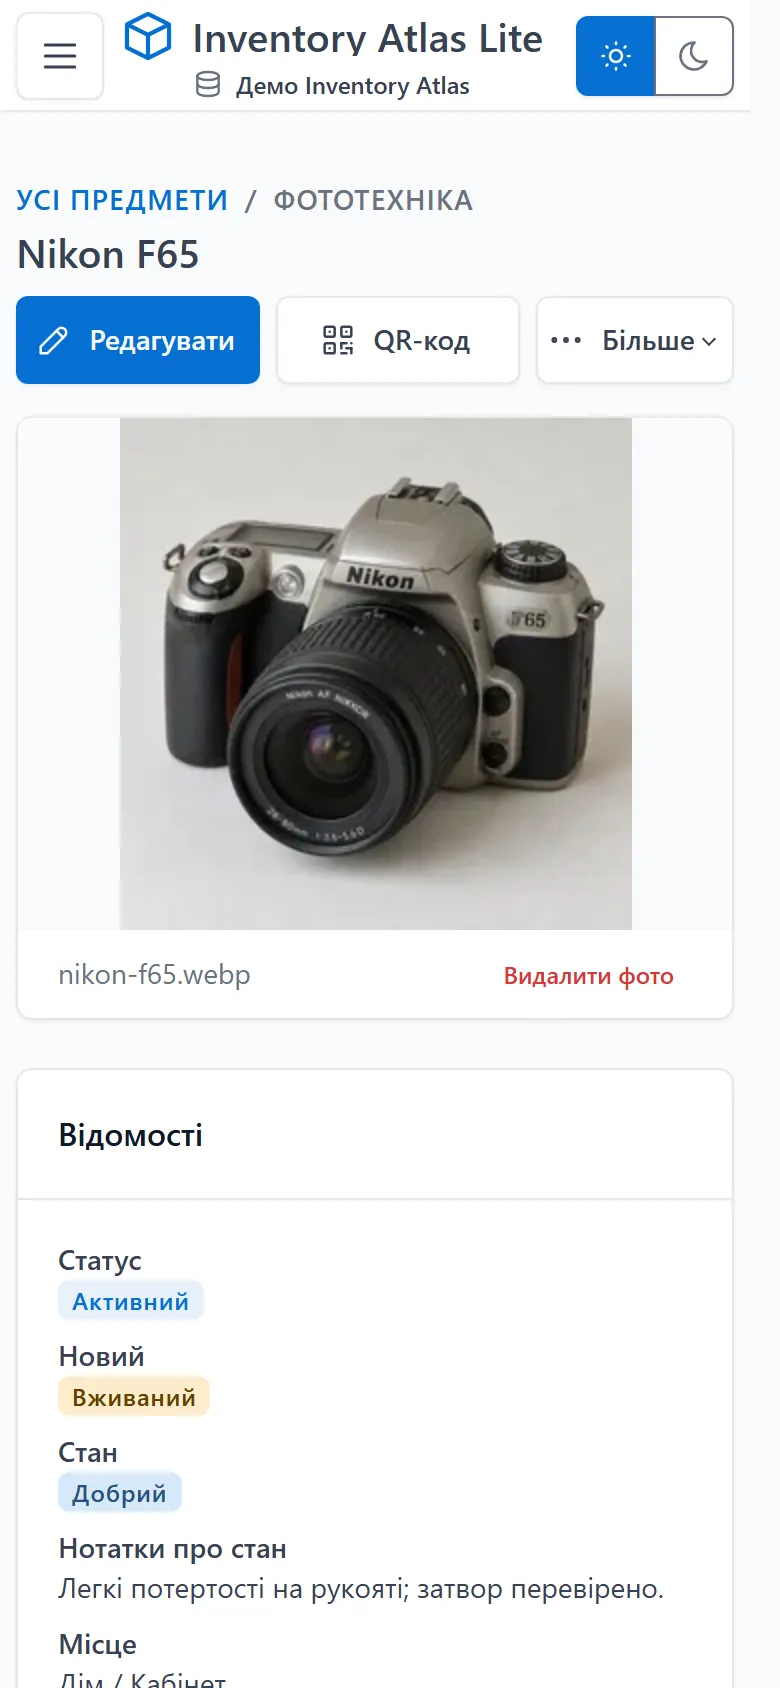
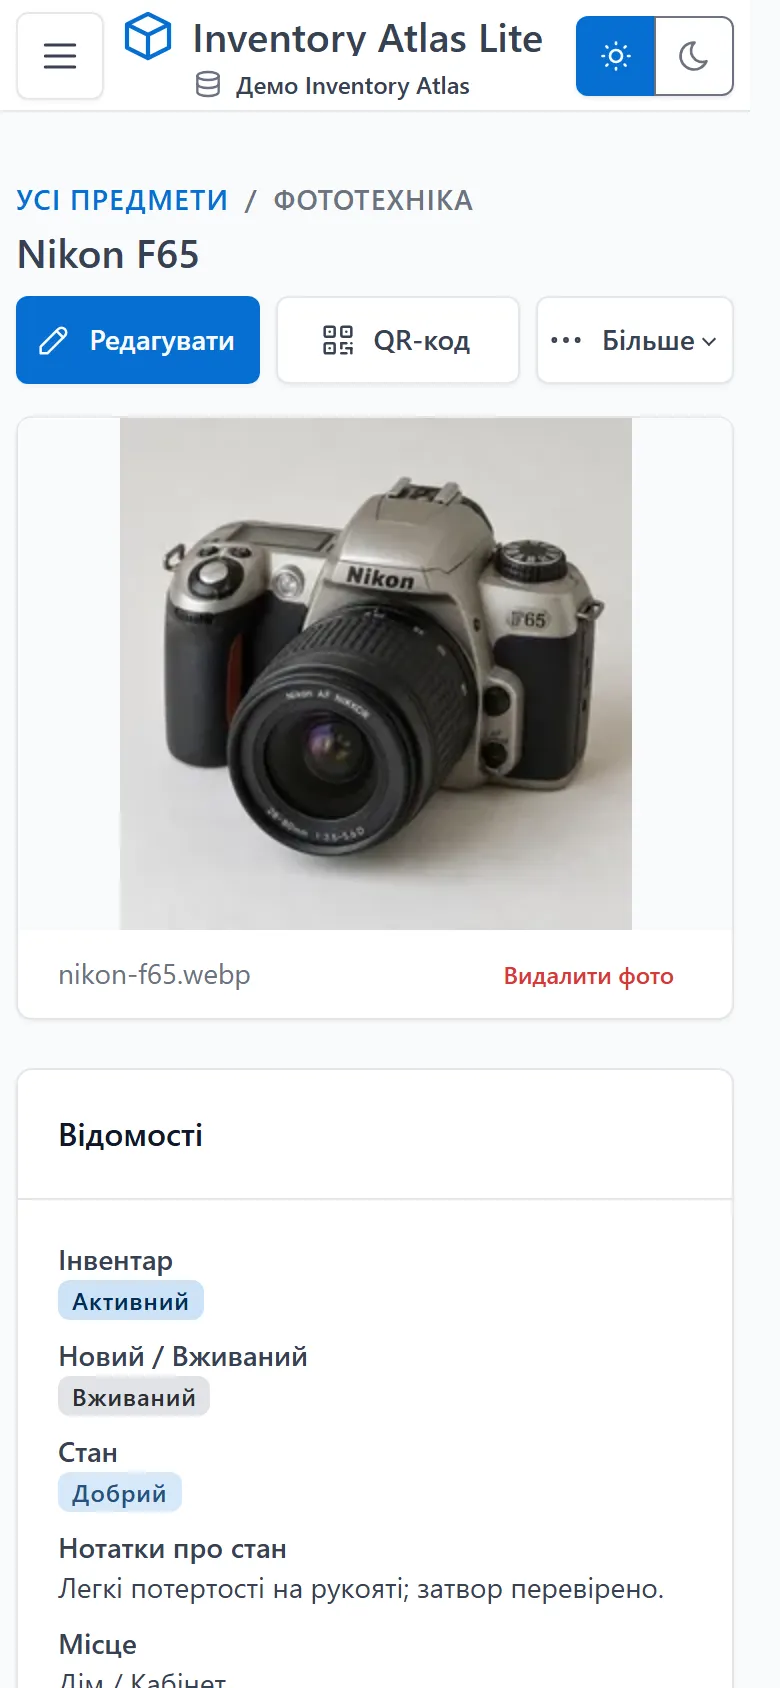
Clarify Inventory, New / Used, and Condition labels on Item Details (#58)

Changed region(s): [[0.0615, 0.7393, 0.4, 0.8626]]

diff --git a/test/e2e/item-new-status.spec.js b/test/e2e/item-new-status.spec.js
@@ -3,7 +3,7 @@ import { createCategory, createItem, detail, unique } from './helpers.js';
 
 const searchBox = page => page.getByPlaceholder('Search name, description, serial number, transferred to, specific location or text fields…');
 const newBadge = /bg-success-subtle text-success-emphasis/;
-const usedBadge = /bg-warning-subtle text-warning-emphasis/;
+const usedBadge = /bg-secondary-subtle text-secondary-emphasis/;
 
 // A new item and a used one, so every view shows both badges.
 async function newAndUsedItems(request) {
@@ -14,18 +14,31 @@ async function newAndUsedItems(request) {
   return { token, fresh, worn };
 }
 
-// WCAG contrast ratio between the badge text and its own background, as the browser resolved them.
+// WCAG contrast ratio between the badge text and the background it is seen on, as the browser resolved
+// them: a translucent background (Tabler's -lt colors) is blended over the nearest opaque ancestor.
 const contrastOf = badge => badge.evaluate(element => {
-  const style = getComputedStyle(element);
-  const channels = color => color.match(/[\d.]+/g).slice(0, 3).map(Number);
-  const luminance = color => {
-    const [r, g, b] = channels(color).map(value => {
+  // rgb() reports 0..255 channels; color-mix() resolves to color(srgb …) with 0..1 channels.
+  const parse = color => {
+    const values = color.replace(/^color\(srgb/, '').match(/[\d.]+/g).map(Number);
+    const scale = color.startsWith('color(') ? 255 : 1;
+    return { rgb: values.slice(0, 3).map(value => value * scale), alpha: values[3] ?? 1 };
+  };
+  const blend = (top, bottom) => top.rgb.map((value, i) => value * top.alpha + bottom[i] * (1 - top.alpha));
+  const backdrop = node => {
+    if (!node) return [255, 255, 255];
+    const own = parse(getComputedStyle(node).backgroundColor);
+    return own.alpha === 1 ? own.rgb : blend(own, backdrop(node.parentElement));
+  };
+  const luminance = rgb => {
+    const [r, g, b] = rgb.map(value => {
       const c = value / 255;
       return c <= 0.03928 ? c / 12.92 : ((c + 0.055) / 1.055) ** 2.4;
     });
     return 0.2126 * r + 0.7152 * g + 0.0722 * b;
   };
-  const [light, dark] = [luminance(style.color), luminance(style.backgroundColor)].sort((a, b) => b - a);
+  const background = backdrop(element);
+  const text = blend(parse(getComputedStyle(element).color), background);
+  const [light, dark] = [luminance(text), luminance(background)].sort((a, b) => b - a);
   return (light + 0.05) / (dark + 0.05);
 });
 
@@ -59,12 +72,12 @@ test('Item Details shows the badge while the form keeps the New switch', async (
   const { fresh, worn } = await newAndUsedItems(request);
 
   await page.goto(`/items/${fresh.id}`);
-  await expect(detail(page, 'New')).toHaveText('New');
-  await expect(detail(page, 'New').locator('.badge')).toHaveClass(newBadge);
+  await expect(detail(page, 'New / Used')).toHaveText('New');
+  await expect(detail(page, 'New / Used').locator('.badge')).toHaveClass(newBadge);
 
   await page.goto(`/items/${worn.id}`);
-  await expect(detail(page, 'New')).toHaveText('Used');
-  await expect(detail(page, 'New').locator('.badge')).toHaveClass(usedBadge);
+  await expect(detail(page, 'New / Used')).toHaveText('Used');
+  await expect(detail(page, 'New / Used').locator('.badge')).toHaveClass(usedBadge);
 
   // Editing stays a plain checked/unchecked switch, never a badge.
   await page.getByRole('link', { name: 'Edit' }).click();
@@ -72,21 +85,64 @@ test('Item Details shows the badge while the form keeps the New switch', async (
   await expect(page.getByRole('checkbox', { name: 'New', exact: true })).not.toBeChecked();
   await page.getByRole('checkbox', { name: 'New', exact: true }).check();
   await page.getByRole('button', { name: 'Save item' }).click();
-  await expect(detail(page, 'New')).toHaveText('New');
+  await expect(detail(page, 'New / Used')).toHaveText('New');
+});
+
+// A used, Excellent item with two-line notes and a new item with no grade or notes.
+async function gradedAndPlainItems(request) {
+  const category = await createCategory(request, unique('Optics'));
+  const graded = await createItem(request, {
+    name: unique('Graded'), category_id: category.id, is_new: false,
+    condition_grade: 'excellent', condition_notes: 'Light scuff on the hood\nCaps included'
+  });
+  const plain = await createItem(request, { name: unique('Plain'), category_id: category.id, is_new: true });
+  return { graded, plain };
+}
+
+const detailsTerms = page => page.locator('.card')
+  .filter({ has: page.getByRole('heading', { name: 'Details', exact: true }) }).locator('dt');
+
+test('the Details card labels Inventory, New / Used, and Condition apart', async ({ page, request }) => {
+  const { graded, plain } = await gradedAndPlainItems(request);
+
+  await page.goto(`/items/${graded.id}`);
+  await expect(detail(page, 'Condition Notes')).toBeVisible();
+  expect((await detailsTerms(page).allInnerTexts()).slice(0, 4)).toEqual(['Inventory', 'New / Used', 'Condition', 'Condition Notes']);
+  await expect(page.locator('dt:text-is("New")')).toHaveCount(0);
+  await expect(detail(page, 'Inventory')).toHaveText('Active');
+  await expect(detail(page, 'Inventory').locator('.badge')).toHaveClass(/bg-primary-subtle text-primary-emphasis/);
+  await expect(detail(page, 'New / Used')).toHaveText('Used');
+  await expect(detail(page, 'New / Used').locator('.badge')).toHaveClass(usedBadge);
+  await expect(detail(page, 'Condition')).toHaveText('Excellent');
+  await expect(detail(page, 'Condition').locator('.badge')).toHaveClass(/condition-badge-green/);
+  // The notes keep their own line break, directly below Condition.
+  expect((await detail(page, 'Condition Notes').innerText()).trim()).toBe('Light scuff on the hood\nCaps included');
+
+  await page.goto(`/items/${plain.id}`);
+  await expect(detail(page, 'New / Used')).toHaveText('New');
+  await expect(detail(page, 'New / Used').locator('.badge')).toHaveClass(newBadge);
+  await expect(detail(page, 'Condition')).toHaveText('Not set');
+  await expect(detail(page, 'Condition').locator('.badge')).toHaveClass(/condition-badge-unset/);
+  await expect(page.locator('dt:text-is("Condition Notes")')).toHaveCount(0);
 });
 
 test('the badges are localized and readable in both color modes', async ({ page, request }) => {
   const { fresh, worn } = await newAndUsedItems(request);
+  const retired = await createItem(request, { name: unique('Retired'), category_id: fresh.category_id });
+  const response = await request.patch(`/api/items/${retired.id}/lifecycle`, { data: { status: 'retired', reason: 'sold' } });
+  expect(response.ok()).toBeTruthy();
   await page.addInitScript(() => { if (!localStorage.getItem('inventory-atlas.locale')) localStorage.setItem('inventory-atlas.locale', 'uk'); });
 
   for (const theme of ['light', 'dark']) {
     await page.addInitScript(value => localStorage.setItem('inventory-atlas-theme', value), theme);
-    for (const [item, label] of [[fresh, 'Новий'], [worn, 'Вживаний']]) {
+    for (const [item, label, inventory] of [[fresh, 'Новий', 'Активний'], [worn, 'Вживаний', 'Активний'], [retired, 'Вживаний', 'Списаний']]) {
       await page.goto(`/items/${item.id}`);
       await expect(page.locator('html')).toHaveAttribute('data-bs-theme', theme);
-      const badge = detail(page, 'Новий').locator('.badge');
-      await expect(badge).toHaveText(label);
-      expect(await contrastOf(badge), `${label} in ${theme} mode`).toBeGreaterThanOrEqual(4.5);
+      for (const [term, text] of [['Новий / Вживаний', label], ['Інвентар', inventory]]) {
+        const badge = detail(page, term).locator('.badge');
+        await expect(badge).toHaveText(text);
+        expect(await contrastOf(badge), `${text} in ${theme} mode`).toBeGreaterThanOrEqual(4.5);
+      }
     }
   }
 });
@@ -107,5 +163,16 @@ test.describe('narrow screens', () => {
     await expect(card('fresh').getByText('New', { exact: true })).toHaveClass(newBadge);
     await expect(card('worn').getByText('Used', { exact: true })).toHaveClass(usedBadge);
     await expect(card('worn')).not.toContainText('New:');
+  });
+
+  test('the Details labels stack above their badges without overflowing', async ({ page, request }) => {
+    const { graded } = await gradedAndPlainItems(request);
+
+    await page.goto(`/items/${graded.id}`);
+    const term = page.locator('dt:text-is("New / Used")');
+    await expect(detail(page, 'New / Used')).toHaveText('Used');
+    const [termBox, valueBox] = [await term.boundingBox(), await detail(page, 'New / Used').boundingBox()];
+    expect(valueBox.y).toBeGreaterThanOrEqual(termBox.y + termBox.height - 1);
+    expect(await page.evaluate(() => document.documentElement.scrollWidth)).toBeLessThanOrEqual(390);
   });
 });

diff --git a/test/e2e/lifecycle.spec.js b/test/e2e/lifecycle.spec.js
@@ -55,7 +55,7 @@ test('retires an item with a reason, filters it out of the active list, and rest
   await expect(detail(retirement, 'Note')).toHaveText('Paid in cash');
   await expect(detail(retirement, 'Former container')).toHaveText(shelf.name);
   // Nothing else about the item changed: New, the serial number, and its identity stay.
-  await expect(detail(page, 'New')).toHaveText('New');
+  await expect(detail(page, 'New / Used')).toHaveText('New');
   await expect(detail(page, 'Serial Number')).toHaveText('LN-1');
   await openItemActions(page);
   await expect(page.getByRole('button', { name: 'Restore to inventory' })).toBeVisible();
@@ -204,7 +204,7 @@ test('a retired item opens from a direct UUID link, and new sessions start with 
   await retire(request, watch, { reason: 'gifted' });
   await page.goto(`/items/${watch.uuid}`);
   await expect(page.getByRole('heading', { name: watch.name })).toBeVisible();
-  await expect(detail(page, 'Status')).toHaveText('Retired');
+  await expect(detail(page, 'Inventory')).toHaveText('Retired');
   await openItems(page, token);
   await expect(page.getByRole('radio', { name: 'Active' })).toBeChecked();
   await expect(page.getByText('No retired items')).toHaveCount(0);
@@ -239,7 +239,7 @@ test('the lifecycle is translated into Ukrainian', async ({ page, request }) => 
   await dialog.getByLabel('Причина').selectOption({ label: 'Подаровано' });
   await dialog.getByRole('button', { name: 'Списати', exact: true }).click();
   await expect(page.getByRole('status')).toContainText(`«${lamp.name}» списано.`);
-  await expect(detail(page, 'Статус')).toHaveText('Списаний');
+  await expect(detail(page, 'Інвентар')).toHaveText('Списаний');
   await openItemActions(page, 'Більше дій');
   await expect(page.getByRole('button', { name: 'Повернути в інвентар' })).toBeVisible();
 });

diff --git a/client/src/components/ItemLifecycleBadge.vue b/client/src/components/ItemLifecycleBadge.vue
@@ -3,8 +3,9 @@ import { IconArchive } from '@tabler/icons-vue';
 
 /*
   The neutral Retired badge of an item that left the inventory. It is gray with an archive icon, so it
-  never reads as the green New / amber Used badge or a Condition grade, and the word alone carries the
-  meaning. `showActive` also labels an active item, where the status is the subject (item details).
+  never reads as a Condition grade, and the word alone carries the meaning. `showActive` also labels an
+  active item in blue, where the status is the subject (item details). Both use opaque subtle/emphasis
+  pairs, like the New / Used badge, so the word stays readable in both color modes.
 */
 defineProps({
   status: { type: String, required: true },
@@ -15,7 +16,7 @@ defineProps({
 <template>
   <span
     v-if="status === 'retired'"
-    class="badge bg-secondary-lt text-secondary-emphasis"
+    class="badge bg-secondary-subtle text-secondary-emphasis"
   ><IconArchive
     :size="14"
     class="me-1"
@@ -23,6 +24,6 @@ defineProps({
   />{{ $t('lifecycle.statuses.retired') }}</span>
   <span
     v-else-if="showActive"
-    class="badge bg-blue-lt"
+    class="badge bg-primary-subtle text-primary-emphasis"
   >{{ $t('lifecycle.statuses.active') }}</span>
 </template>

diff --git a/client/src/components/ItemNewStatusBadge.vue b/client/src/components/ItemNewStatusBadge.vue
@@ -1,8 +1,9 @@
 <script setup>
 /*
-  The read-only face of the core New flag: a green New or an amber Used badge. The flag stays a boolean
-  everywhere else; the words and colors belong to the interface. The subtle background and emphasis text
-  pairs keep the label readable in both color modes, and the text alone carries the meaning.
+  The read-only face of the core New flag: a restrained green New or a neutral gray Used badge, since
+  a used item is ordinary and never a warning. The flag stays a boolean everywhere else; the words and
+  colors belong to the interface. The subtle background and emphasis text pairs keep the label readable
+  in both color modes, and the text alone carries the meaning.
 */
 defineProps({ isNew: { type: Boolean, required: true } });
 </script>
@@ -10,6 +11,6 @@ defineProps({ isNew: { type: Boolean, required: true } });
 <template>
   <span
     class="badge"
-    :class="isNew ? 'bg-success-subtle text-success-emphasis' : 'bg-warning-subtle text-warning-emphasis'"
+    :class="isNew ? 'bg-success-subtle text-success-emphasis' : 'bg-secondary-subtle text-secondary-emphasis'"
   >{{ $t(isNew ? 'items.newStatus.new' : 'items.newStatus.used') }}</span>
 </template>

diff --git a/test/e2e/items.spec.js b/test/e2e/items.spec.js
@@ -44,7 +44,7 @@ test('creates an item, finds it in the list, and edits its values', async ({ pag
   await expect(page.getByRole('link', { name: itemName, exact: true })).toBeVisible();
 
   await page.getByRole('link', { name: itemName, exact: true }).click();
-  await expect(detail(page, 'New')).toHaveText('New');
+  await expect(detail(page, 'New / Used')).toHaveText('New');
   await expect(detail(page, 'Condition')).toHaveText('Good');
   await expect(detail(page, 'Condition Notes')).toHaveText('Light brassing');
   await expect(detail(page, 'Location')).toHaveText('Shelf A');
@@ -73,7 +73,7 @@ test('creates an item, finds it in the list, and edits its values', async ({ pag
   await page.getByRole('button', { name: 'Save item' }).click();
 
   await expect(page.getByRole('heading', { name: renamed })).toBeVisible();
-  await expect(detail(page, 'New')).toHaveText('Used');
+  await expect(detail(page, 'New / Used')).toHaveText('Used');
   await expect(detail(page, 'Condition')).toHaveText('Excellent');
   // Empty notes are left out instead of being shown as a blank line.
   await expect(page.locator('dt:text-is("Condition Notes")')).toHaveCount(0);

diff --git a/client/src/pages/ItemDetails.vue b/client/src/pages/ItemDetails.vue
@@ -305,7 +305,7 @@ onMounted(load);
           <div class="card-body">
             <dl class="row mb-0">
               <dt class="col-sm-4">
-                {{ $t('lifecycle.fields.status') }}
+                {{ $t('itemDetails.inventory') }}
               </dt>
               <dd class="col-sm-8">
                 <ItemLifecycleBadge
@@ -314,7 +314,7 @@ onMounted(load);
                 />
               </dd>
               <dt class="col-sm-4">
-                {{ $t('items.fields.isNew') }}
+                {{ $t('itemDetails.newOrUsed') }}
               </dt>
               <dd class="col-sm-8">
                 <ItemNewStatusBadge :is-new="item.is_new" />

diff --git a/test/e2e/batch-items.spec.js b/test/e2e/batch-items.spec.js
@@ -65,7 +65,7 @@ test('batch add from JSON previews, edits, and creates a category batch', async 
   await expect(page.getByRole('link', { name: spare, exact: true })).toHaveCount(0);
 
   await page.getByRole('link', { name: router, exact: true }).click();
-  await expect(detail(page, 'New')).toHaveText('New');
+  await expect(detail(page, 'New / Used')).toHaveText('New');
   await expect(detail(page, 'Location')).toHaveText('Rack');
   await expect(detail(page, 'Purchase Price')).toHaveText('UAH 1,500.00');
   await expect(detail(page, 'Serial Number')).toHaveText('RT-77');

diff --git a/test/e2e/duplicate-item.spec.js b/test/e2e/duplicate-item.spec.js
@@ -61,7 +61,7 @@ test('Duplicate opens a prefilled Add Item form and saves a separate item', asyn
   await page.getByRole('button', { name: 'Save item' }).click();
 
   await expect(page.getByRole('heading', { name: copyName })).toBeVisible();
-  await expect(detail(page, 'New')).toHaveText('New');
+  await expect(detail(page, 'New / Used')).toHaveText('New');
   await expect(detail(page, 'Condition')).toHaveText('Poor');
   await expect(detail(page, 'Condition Notes')).toHaveText('Dented corner');
   await expect(page).not.toHaveURL(`/items/${source.id}`);

diff --git a/test/e2e/templates.spec.js b/test/e2e/templates.spec.js
@@ -69,7 +69,7 @@ test('creates, edits, uses, and deletes an item template without linking the ite
   await expect(detail(page, 'Location')).toHaveText('Attic');
   await expect(detail(page, 'Size')).toHaveText('40x24x21');
   await expect(detail(page, 'Sealed')).toHaveText('Yes');
-  await expect(detail(page, 'New')).toHaveText('New');
+  await expect(detail(page, 'New / Used')).toHaveText('New');
   const itemUrl = page.url();
 
   // Deleting the template leaves the created item untouched.

diff --git a/docs/features/item-new-flag.md b/docs/features/item-new-flag.md
@@ -14,9 +14,13 @@ Condition: Poor      Condition: Excellent
 
 - **Add/Edit Item** shows a **New** switch above Condition. A blank item starts unchecked (`false`).
 - **Read-only views** show the flag as a status badge instead of Yes/No: a green **New** badge for
-  `true` and an amber **Used** badge for `false`. The words are localized (Ukrainian **Новий** and
-  **Вживаний**) and always visible, so color is never the only carrier of meaning.
-- **Item details** always show the badge under the **New** label, directly above Condition.
+  `true` and a neutral gray **Used** badge for `false` (a used item is ordinary, never a warning). The
+  words are localized (Ukrainian **Новий** and **Вживаний**) and always visible, so color is never the
+  only carrier of meaning.
+- **Item details** always show the badge under the **New / Used** label (Ukrainian **Новий / Вживаний**)
+  of the **Details** card, between **Inventory** (the lifecycle: Active or Retired) and **Condition**, so
+  the three independent attributes read as *Inventory: Active*, *New / Used: Used*, *Condition:
+  Excellent*. The forms keep the plain **New** switch.
 - **Items list**: **New** is a core column in the **Columns** picker (after Condition). It is hidden by
   default, shows the New/Used badge in the table and in the phone cards (without a label there,
   since the badge names itself), and sorts on the server like the other core columns: No before Yes
@@ -65,7 +69,7 @@ state is inferred from them. The flag never sets a grade either.
   duplicate); `ItemDraftFields.vue` renders the item switch or the template tri-state select.
   `ItemNewStatusBadge.vue` is the only owner of the read-only mapping: it takes `is-new` and renders a
   Tabler `badge` with `bg-success-subtle text-success-emphasis` (New) or
-  `bg-warning-subtle text-warning-emphasis` (Used). These Bootstrap subtle/emphasis pairs resolve
+  `bg-secondary-subtle text-secondary-emphasis` (Used). These Bootstrap subtle/emphasis pairs resolve
   through `light-dark()`, so both modes keep a contrast of at least 4.5:1. Item details and
   `ItemResults.vue` (table cell and card line) use it; the cell text in `itemColumns.js` returns the
   same New/Used words so the card emptiness check stays consistent. The badge is presentation only:
@@ -83,7 +87,11 @@ state is inferred from them. The flag never sets a grade either.
 - `test/e2e.test.js`: the flag over HTTP in create, details, list, and sort.
 - Playwright: `test/e2e/item-new-status.spec.js` covers the New and Used badges and their styles in
   the Items table, boolean sorting of the New column, Item details, the phone cards, the unchanged
-  form switch, the Ukrainian labels, and the text contrast in light and dark mode. Other specs cover
+  form switch, the Ukrainian labels, and the text contrast in light and dark mode. It also checks the
+  Details labels and their order (Inventory, New / Used, Condition, Condition Notes), the Active,
+  Excellent, and Not set badges, the multiline notes and their absence when empty, the Active and
+  Retired contrast in both modes (a translucent background blended over the card), and the stacked
+  labels without horizontal overflow on a phone. Other specs cover
   toggling New on create and edit with the badge on Item details, the template default
   flowing into the item form, Duplicate, the Columns picker, and batch preview and refusal.
 

diff --git a/docs/changes/2026-11-10-clarify-item-details-badges.md b/docs/changes/2026-11-10-clarify-item-details-badges.md
@@ -1,0 +1,44 @@
+# Item Details: clear Inventory, New / Used, and Condition labels (#58)
+
+- **Completed:** 2026-11-10
+- **Version:** 0.74.2
+- **Branch:** `feature/58-clarify-item-details-badges`
+
+## Summary
+
+The Details card of Item details showed three independent attributes as *Status: Active*, *New: Used*,
+and *Condition: Excellent*, where *New: Used* read as a contradiction. The change is presentation only:
+no schema, API, business logic, or stored data changed, and `is_new` stays a boolean.
+
+- **Labels:** the Details rows are now **Inventory** (lifecycle), **New / Used**, **Condition**, and
+  **Condition Notes** (only when filled in, line breaks kept), in that order. Ukrainian: **Інвентар**,
+  **Новий / Вживаний**, **Стан**, **Нотатки про стан**. The new keys are `itemDetails.inventory` and
+  `itemDetails.newOrUsed`; `lifecycle.fields.status`, whose only use was this row, was removed. The
+  forms keep the **New** switch, and the Items list keeps its **New** column.
+- **Badges:** `ItemNewStatusBadge.vue` renders **Used** as a neutral gray
+  `bg-secondary-subtle text-secondary-emphasis` badge instead of the amber warning pair; **New** stays
+  the restrained green pair. The badge is shared, so the list, phone cards, and History show the same
+  gray Used.
+- **Contrast:** measuring the lifecycle badges with their translucent Tabler `-lt` backgrounds blended
+  over the card showed **Active** (`bg-blue-lt`) at about 4.2:1 and **Retired**
+  (`bg-secondary-lt text-secondary-emphasis`) at 4.27:1 in light mode, below 4.5:1.
+  `ItemLifecycleBadge.vue` now uses the opaque pairs `bg-primary-subtle text-primary-emphasis` (blue
+  Active) and `bg-secondary-subtle text-secondary-emphasis` (gray Retired, still with its archive icon).
+- Docs: `docs/HOW-TO.md` and `docs/HOW-TO.uk.md` (Create an item, step 3),
+  `docs/features/item-new-flag.md`, and `docs/features/item-lifecycle.md`.
+
+## Verification
+
+- Playwright `test/e2e/item-new-status.spec.js`: new tests for the Details labels and their order, the
+  Active / Used / Excellent and New / Not set combinations, the multiline notes and their absence, and
+  the stacked labels without horizontal overflow at 390 px; the contrast test now blends translucent
+  backgrounds and covers New, Used, Active, and Retired in Ukrainian in light and dark mode. The specs
+  that read the renamed rows (`batch-items`, `duplicate-item`, `items`, `lifecycle`, `templates`) were
+  updated.
+- `npm run lint`: passed. `npm run build`: passed.
+- `npm test`: 442 of 445 passed (1 skipped); the 2 failures are the guide tests in
+  `test/landing.test.js` that also fail on a clean `master` on Windows, unrelated to this change.
+- `APP_VERSION=0.74.2 npm run test:e2e` (with `E2E_*_PORT` overrides for reserved Windows ports):
+  316 passed.
+- `npm run landing:screenshots` re-captured the landing screenshots that show the Details card and
+  the Used badge.
